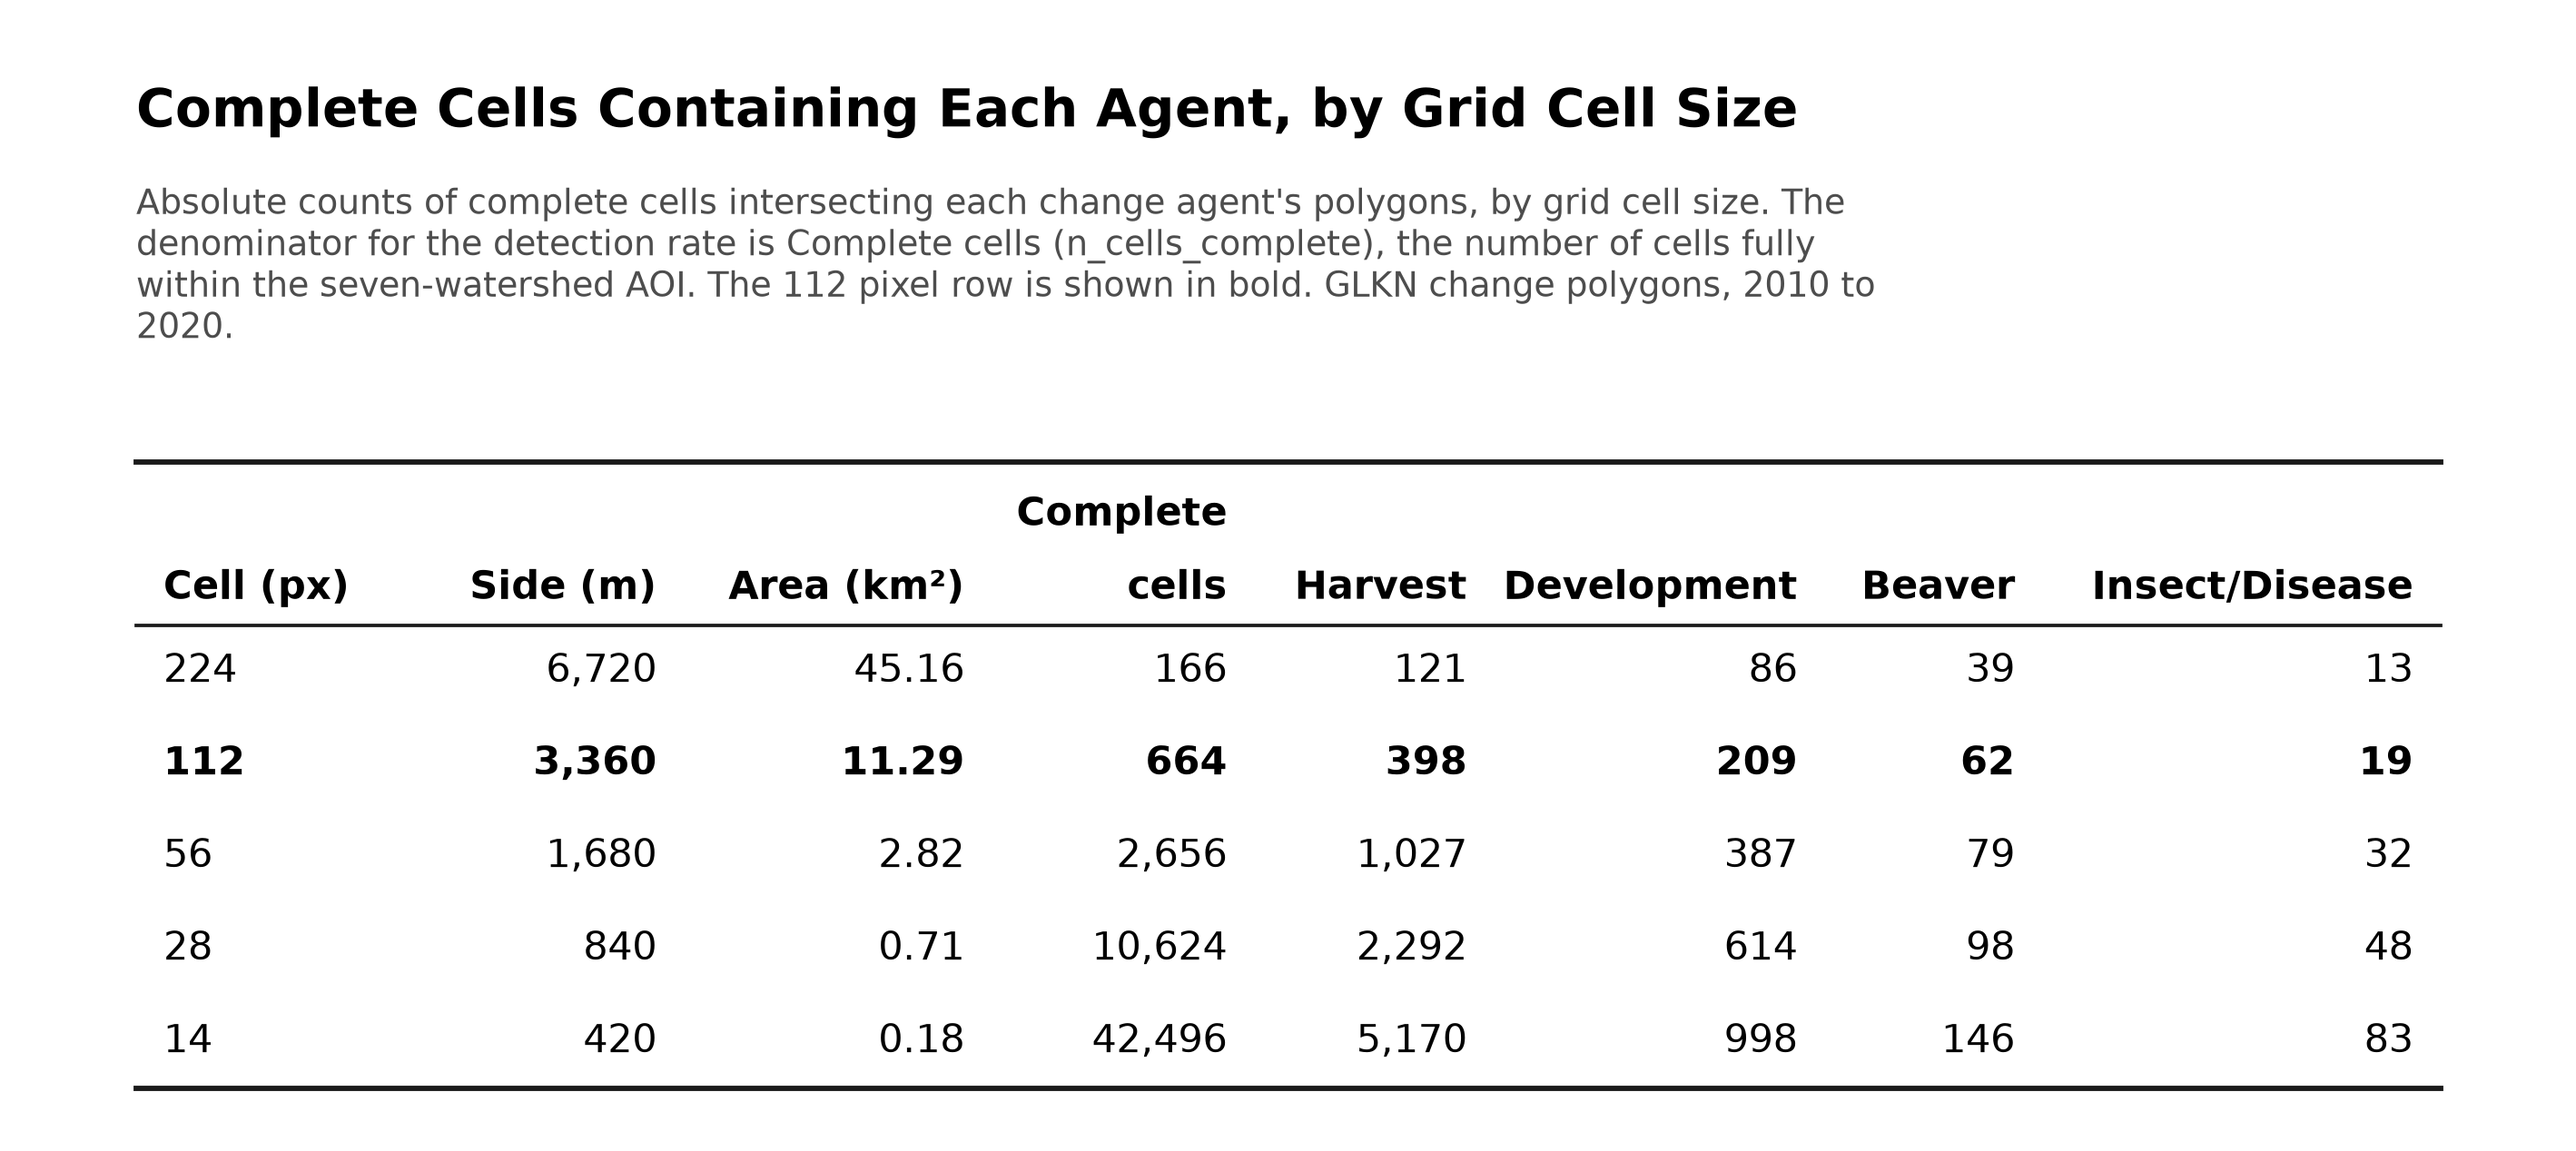
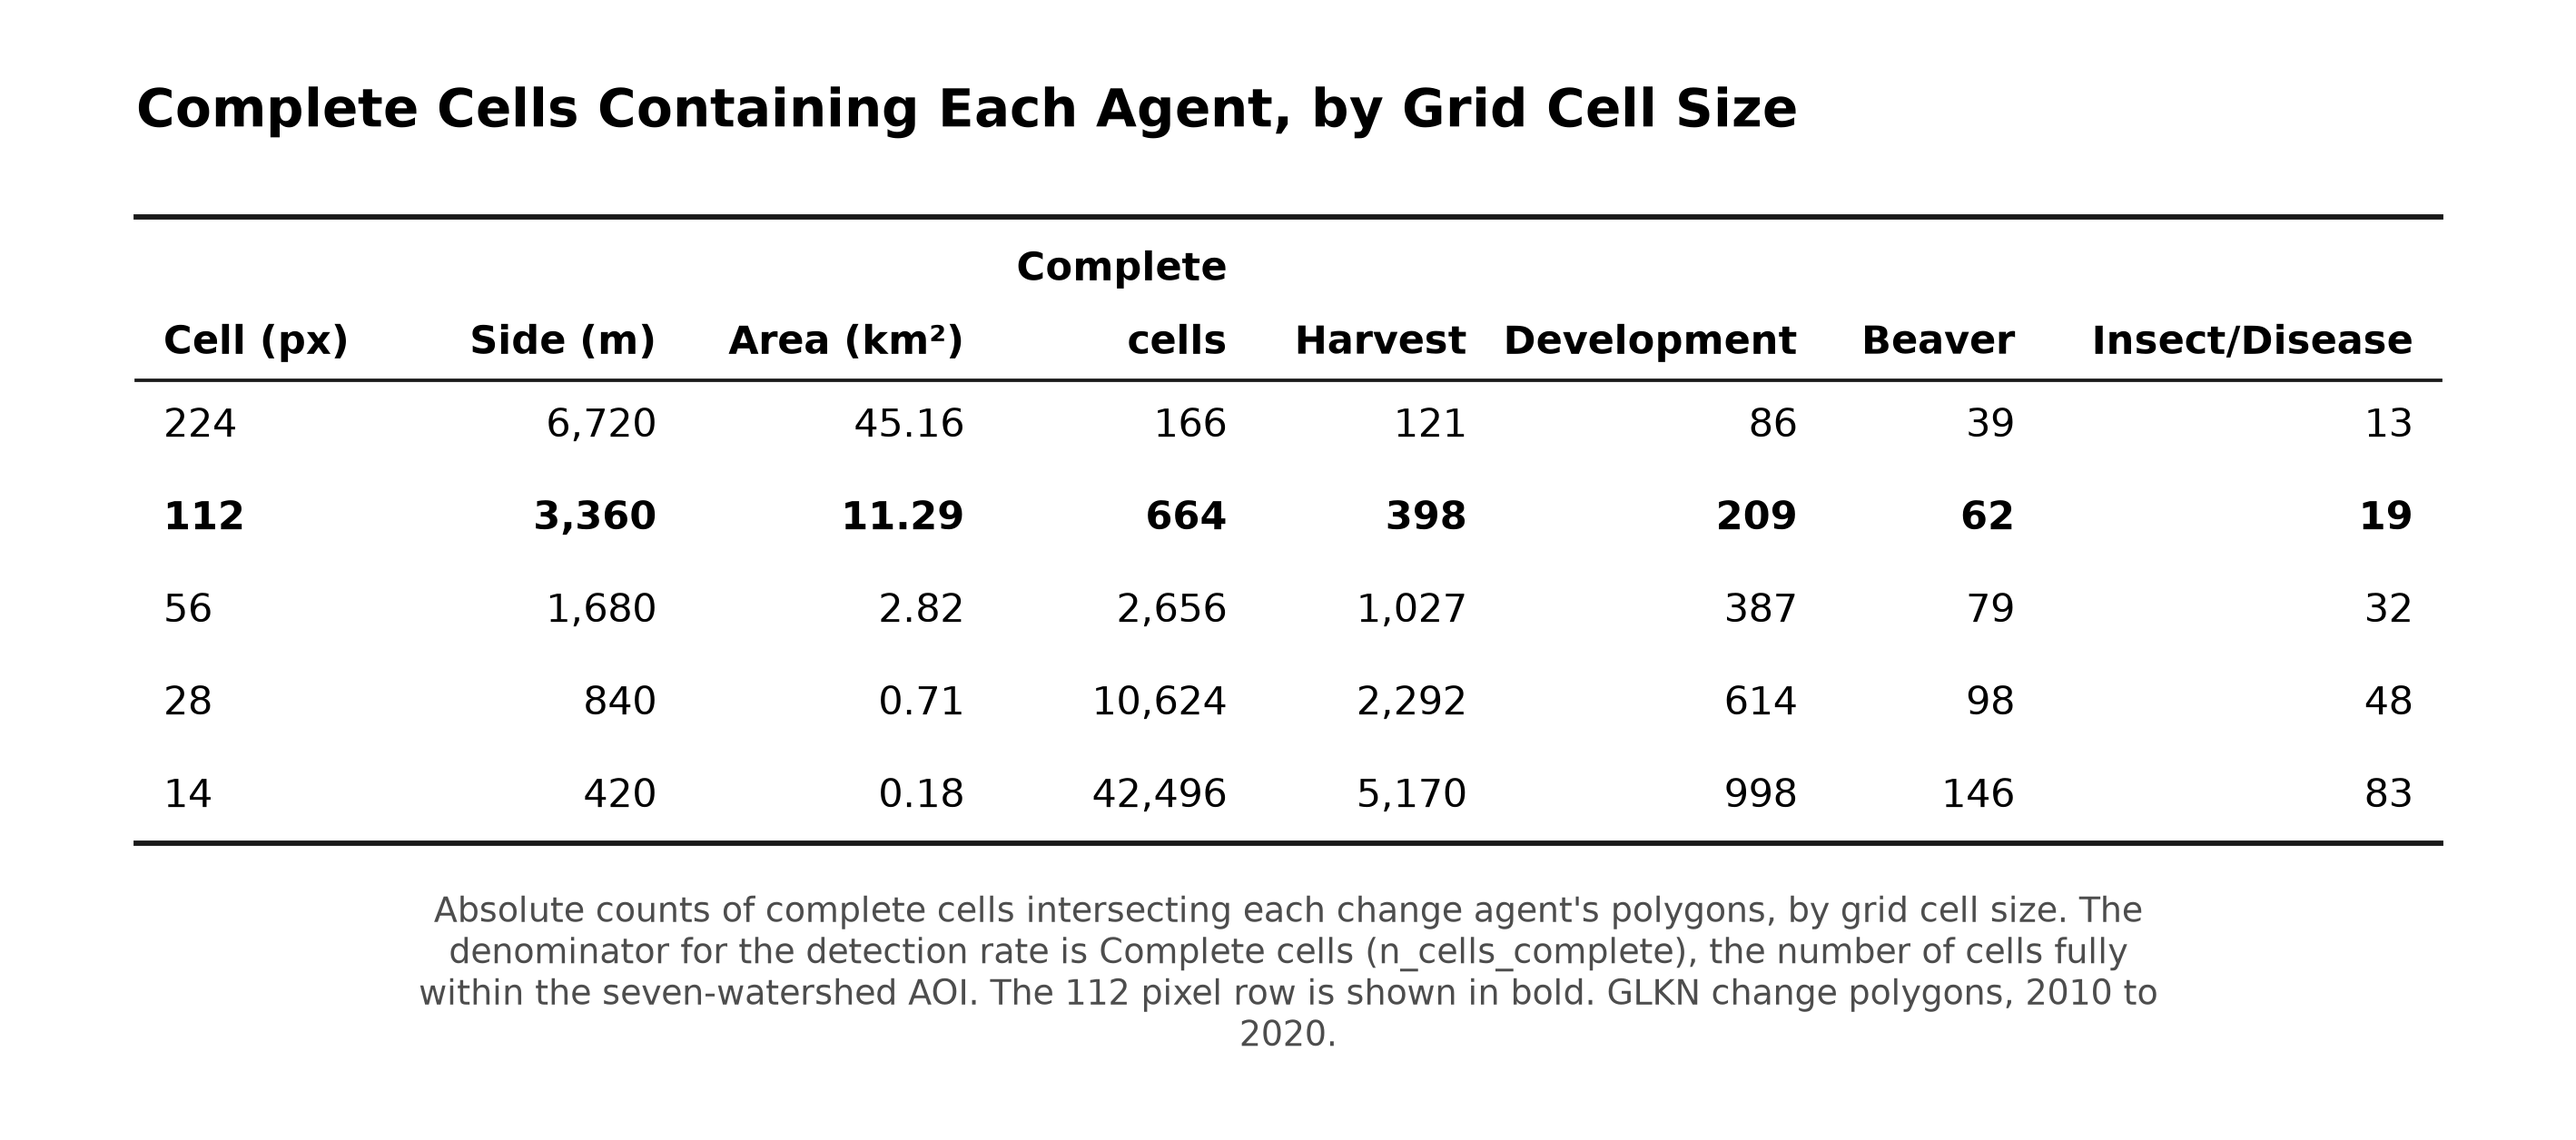
Chapter 3 cell-counts table: move the caption below the table
Render the descriptive paragraph for the cell-counts table below the table too, so
all three Chapter 3 tables now carry their caption below the table.

diff --git a/scripts/build_chapter3_tables.py b/scripts/build_chapter3_tables.py
@@ -236,12 +236,12 @@ def main():
         b_rows.append(base + counts); b_tidy.append(trow)
     b_aligns = ["l", "r", "r", "r"] + ["r" for _ in present_agents]
     emit("chapter3_table_complete_cell_counts_by_cell_size",
-         "Complete Cells Containing Each Agent, by Grid Cell Size", None,
-         "Absolute counts of complete cells intersecting each change agent's polygons, by grid cell "
-         "size. The denominator for the detection rate is Complete cells (n_cells_complete), the number "
-         "of cells fully within the seven-watershed AOI. The 112 pixel row is shown in bold. GLKN "
-         "change polygons, 2010 to 2020.",
-         b_headers, b_rows, b_aligns, pd.DataFrame(b_tidy), bold_rows=bold_idx)
+         "Complete Cells Containing Each Agent, by Grid Cell Size", None, None,   # caption goes below the table
+         b_headers, b_rows, b_aligns, pd.DataFrame(b_tidy), bold_rows=bold_idx,
+         footnote="Absolute counts of complete cells intersecting each change agent's polygons, by "
+         "grid cell size. The denominator for the detection rate is Complete cells (n_cells_complete), "
+         "the number of cells fully within the seven-watershed AOI. The 112 pixel row is shown in "
+         "bold. GLKN change polygons, 2010 to 2020.")
 
     # --- table C: disturbance polygon size by agent, from the per-agent polygon-size summary ---
     poly = pd.read_csv(find("glkn_polygon_area_by_agent_2010_2020.csv"))       # watershed-scoped, 2010-2020
